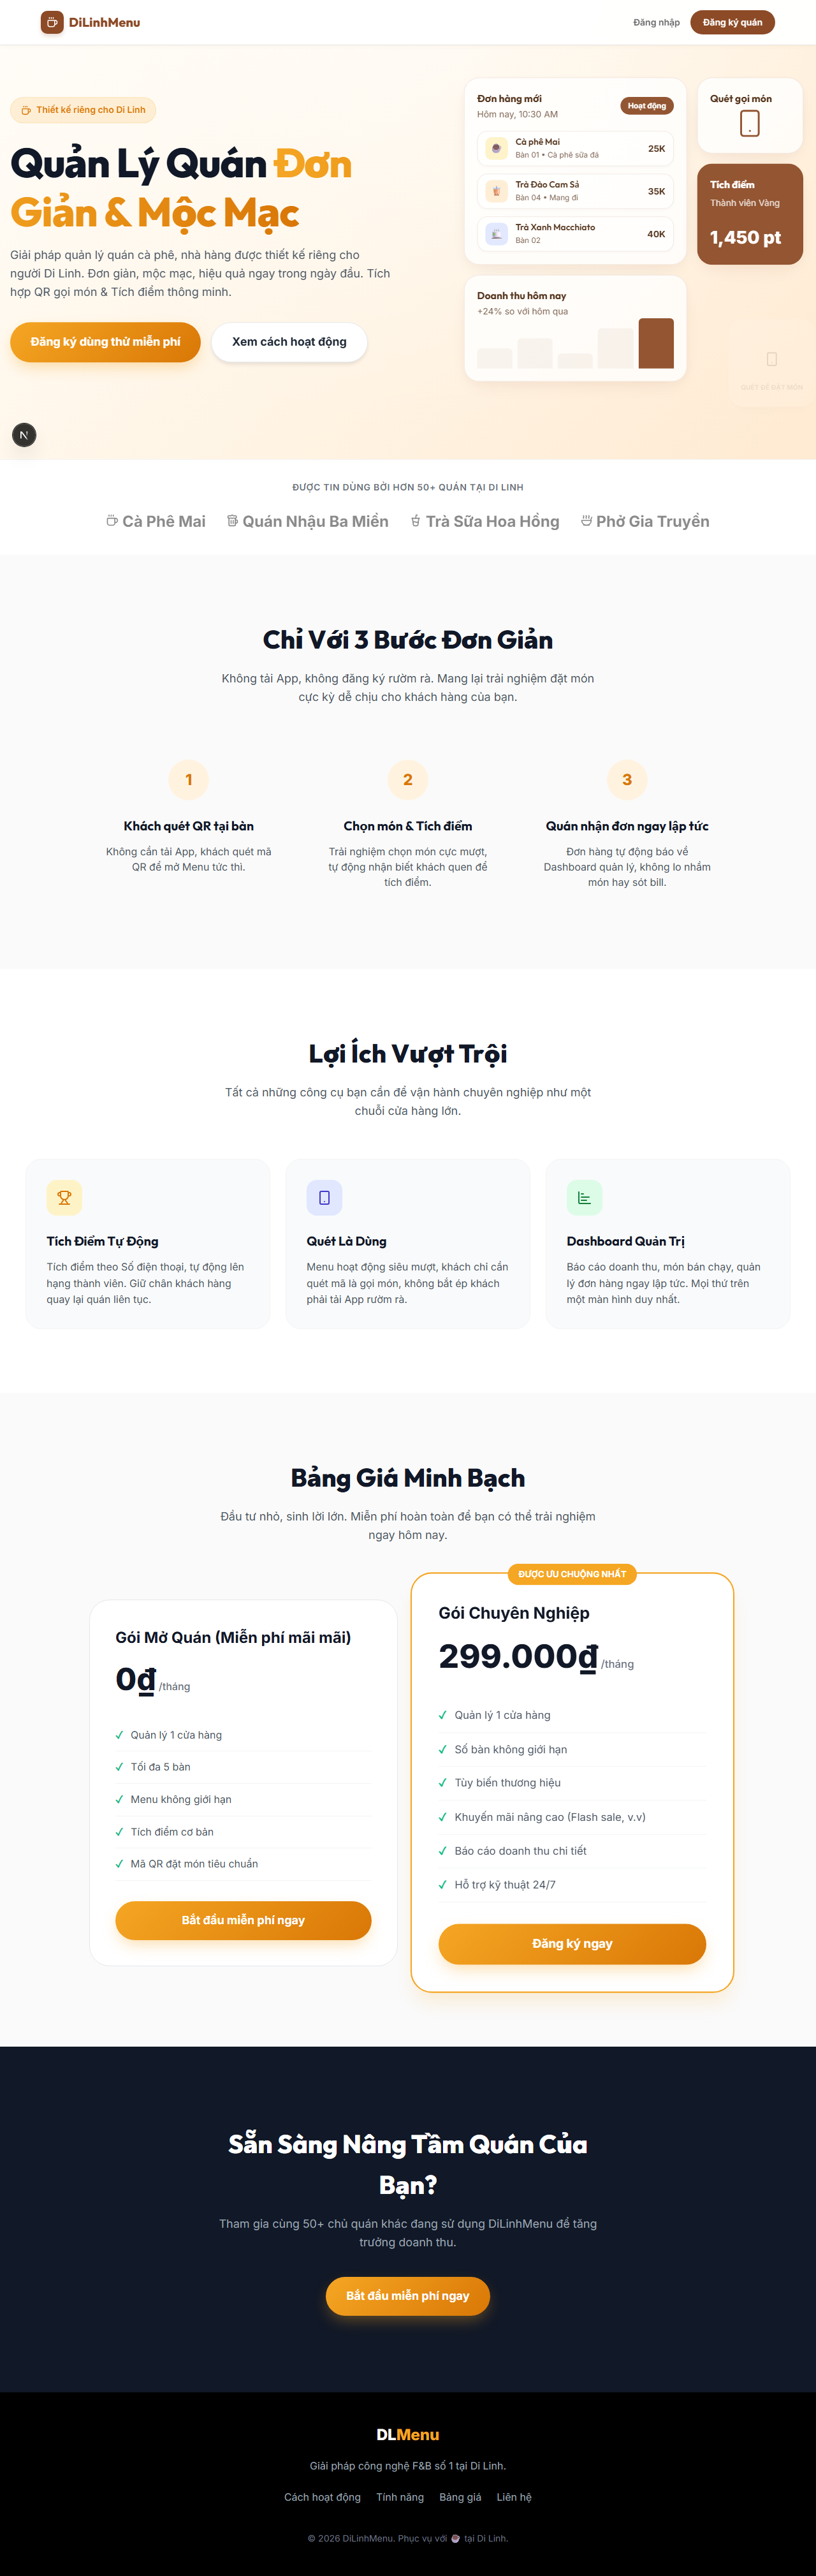
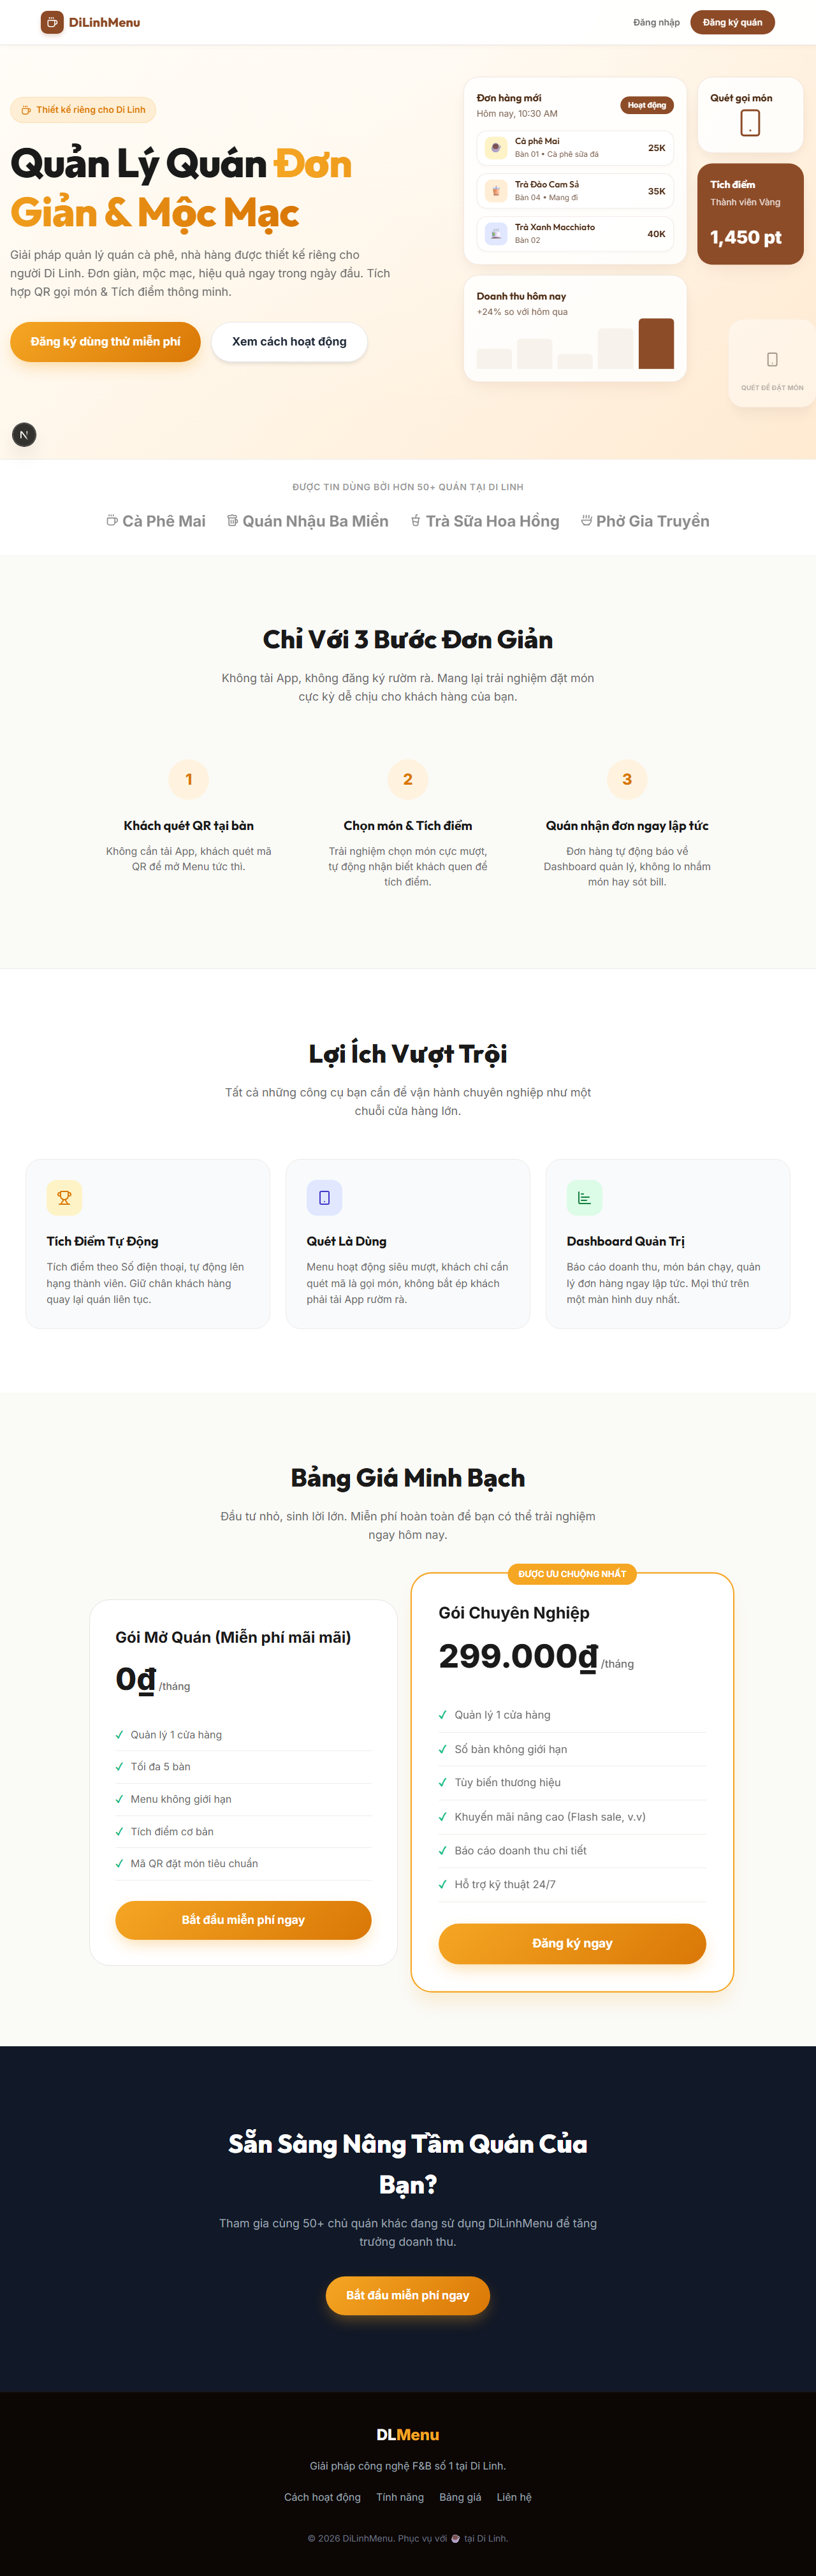
fix: change landing page title color to resolve e2e contrast test failure

diff --git a/src/lib/utils/date.ts b/src/lib/utils/date.ts
@@ -1,0 +1,38 @@
+/**
+ * Tính khoảng cách thời gian tương đối cho trang admin (KDS, orders).
+ * Output tiếng Việt ngắn gọn ("Vừa xong", "2 phút trước", "1h 5m trước").
+ *
+ * @param isoString ISO timestamp (e.g. order.created_at)
+ * @returns chuỗi hiển thị thời gian tương đối so với hiện tại
+ */
+export function formatRelativeTime(isoString: string): string {
+  const now = Date.now();
+  const past = new Date(isoString).getTime();
+  const diffMs = now - past;
+
+  if (Number.isNaN(diffMs)) return '—';
+
+  const totalSeconds = Math.floor(diffMs / 1000);
+  if (totalSeconds < 30) return 'Vừa xong';
+
+  const minutes = Math.floor(totalSeconds / 60);
+  if (minutes < 60) return `${minutes} phút trước`;
+
+  const hours = Math.floor(minutes / 60);
+  if (hours < 24) {
+    const remMin = minutes % 60;
+    return remMin === 0 ? `${hours}h trước` : `${hours}h ${remMin}m trước`;
+  }
+
+  const days = Math.floor(hours / 24);
+  if (days < 7) return `${days} ngày trước`;
+
+  const weeks = Math.floor(days / 7);
+  if (weeks < 5) return `${weeks} tuần trước`;
+
+  const months = Math.floor(days / 30);
+  if (months < 12) return `${months} tháng trước`;
+
+  const years = Math.floor(days / 365);
+  return `${years} năm trước`;
+}

diff --git a/src/lib/actions/shop.ts b/src/lib/actions/shop.ts
@@ -1,6 +1,7 @@
 'use server';
 
 import { createServerSupabaseClient } from '@/lib/supabase/server';
+import type { ThemeConfig } from '@/lib/types/database';
 
 export async function updateShopInfo(shopId: string, updates: {
   name?: string;
@@ -20,7 +21,7 @@ export async function updateShopInfo(shopId: string, updates: {
   return { success: true };
 }
 
-export async function updateThemeConfig(shopId: string, themeConfig: { primary_color: string; font: string }) {
+export async function updateThemeConfig(shopId: string, themeConfig: ThemeConfig) {
   if (process.env.NEXT_PUBLIC_USE_MOCK === 'true') {
     return { success: true };
   }

diff --git a/playwright-report/index.html b/playwright-report/index.html
@@ -87,4 +87,4 @@ Error generating stack: `+l.message+`
     <div id='root'></div>
   </body>
 </html>
[2 lines of base64/hex data omitted]

diff --git a/src/app/login/page.tsx b/src/app/login/page.tsx
@@ -19,7 +19,7 @@ export default function LoginPage() {
   // If already logged in, redirect
   React.useEffect(() => {
     if (user && profile) {
-      if (profile.role === 'platform_admin' || profile.role === 'super_admin') {
+      if (profile.role === 'platform_admin') {
         router.push('/platform-admin');
       } else {
         router.push('/admin');